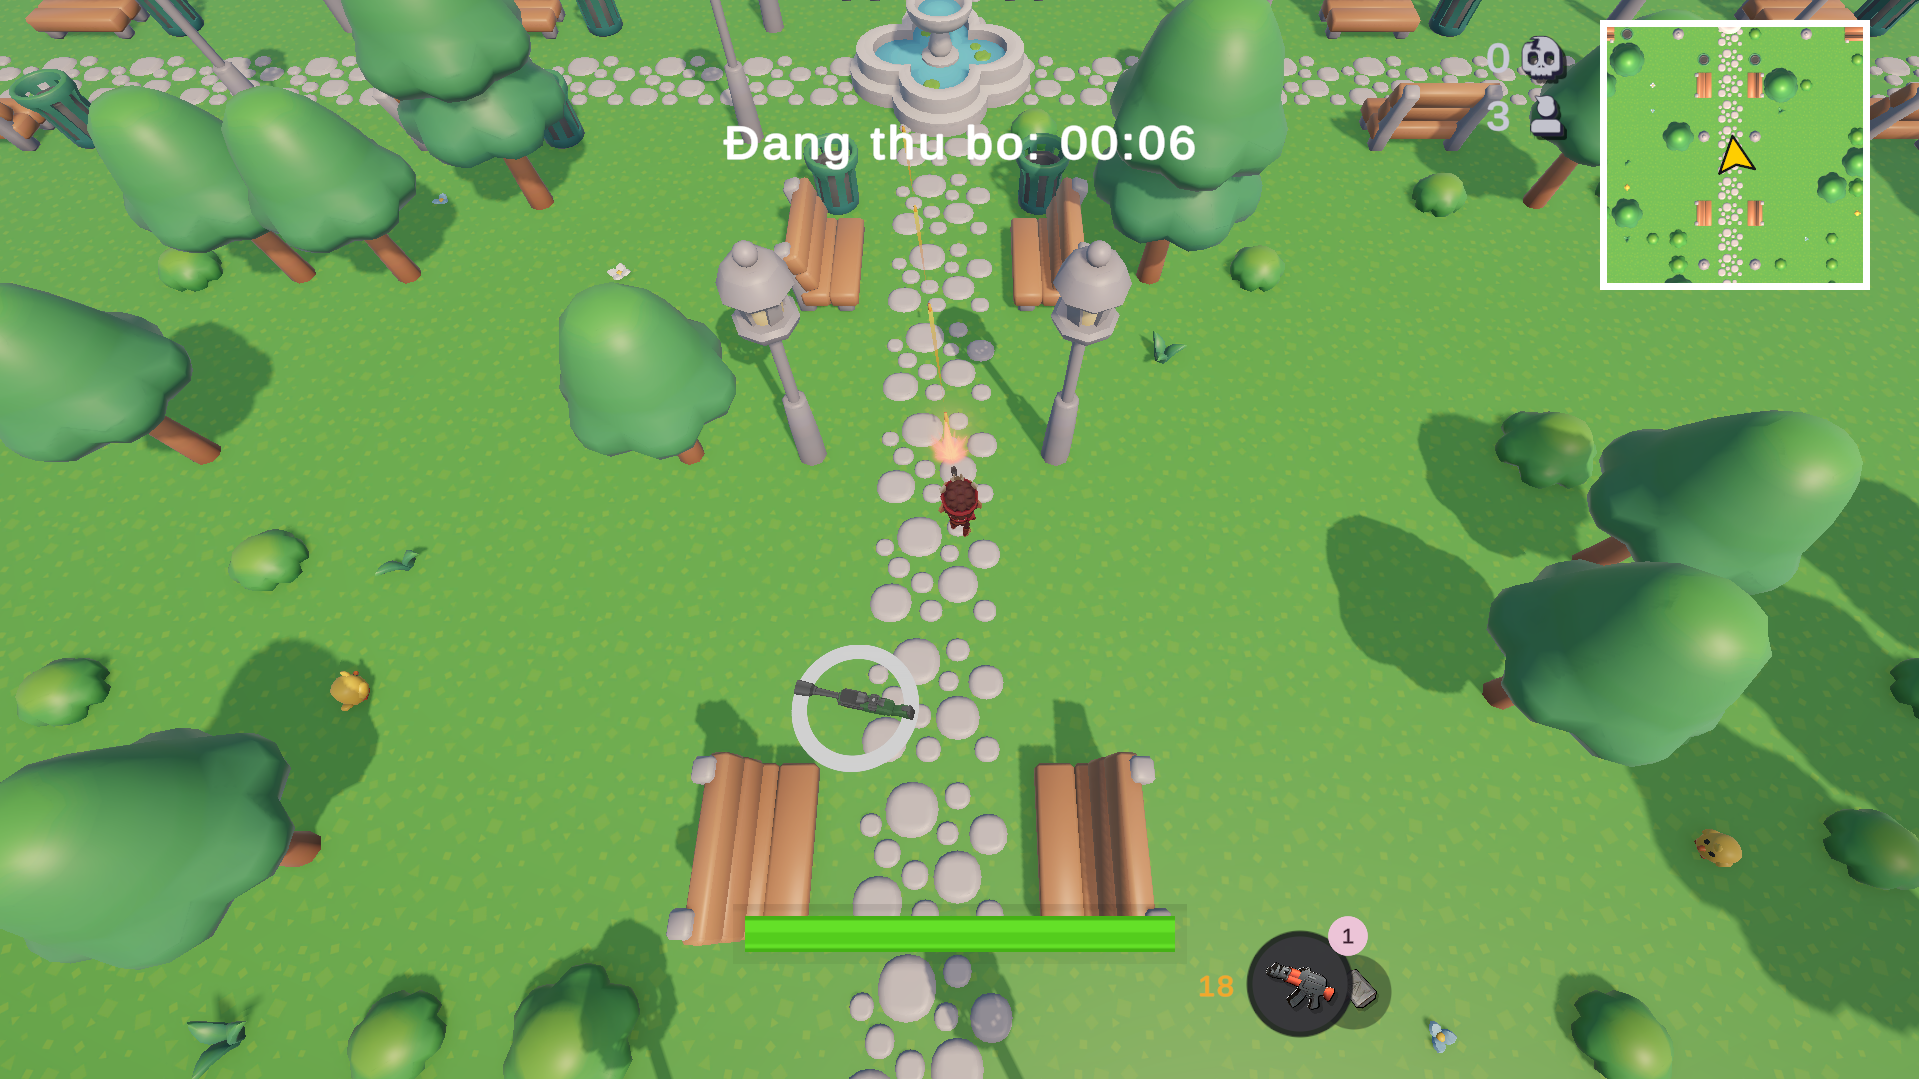
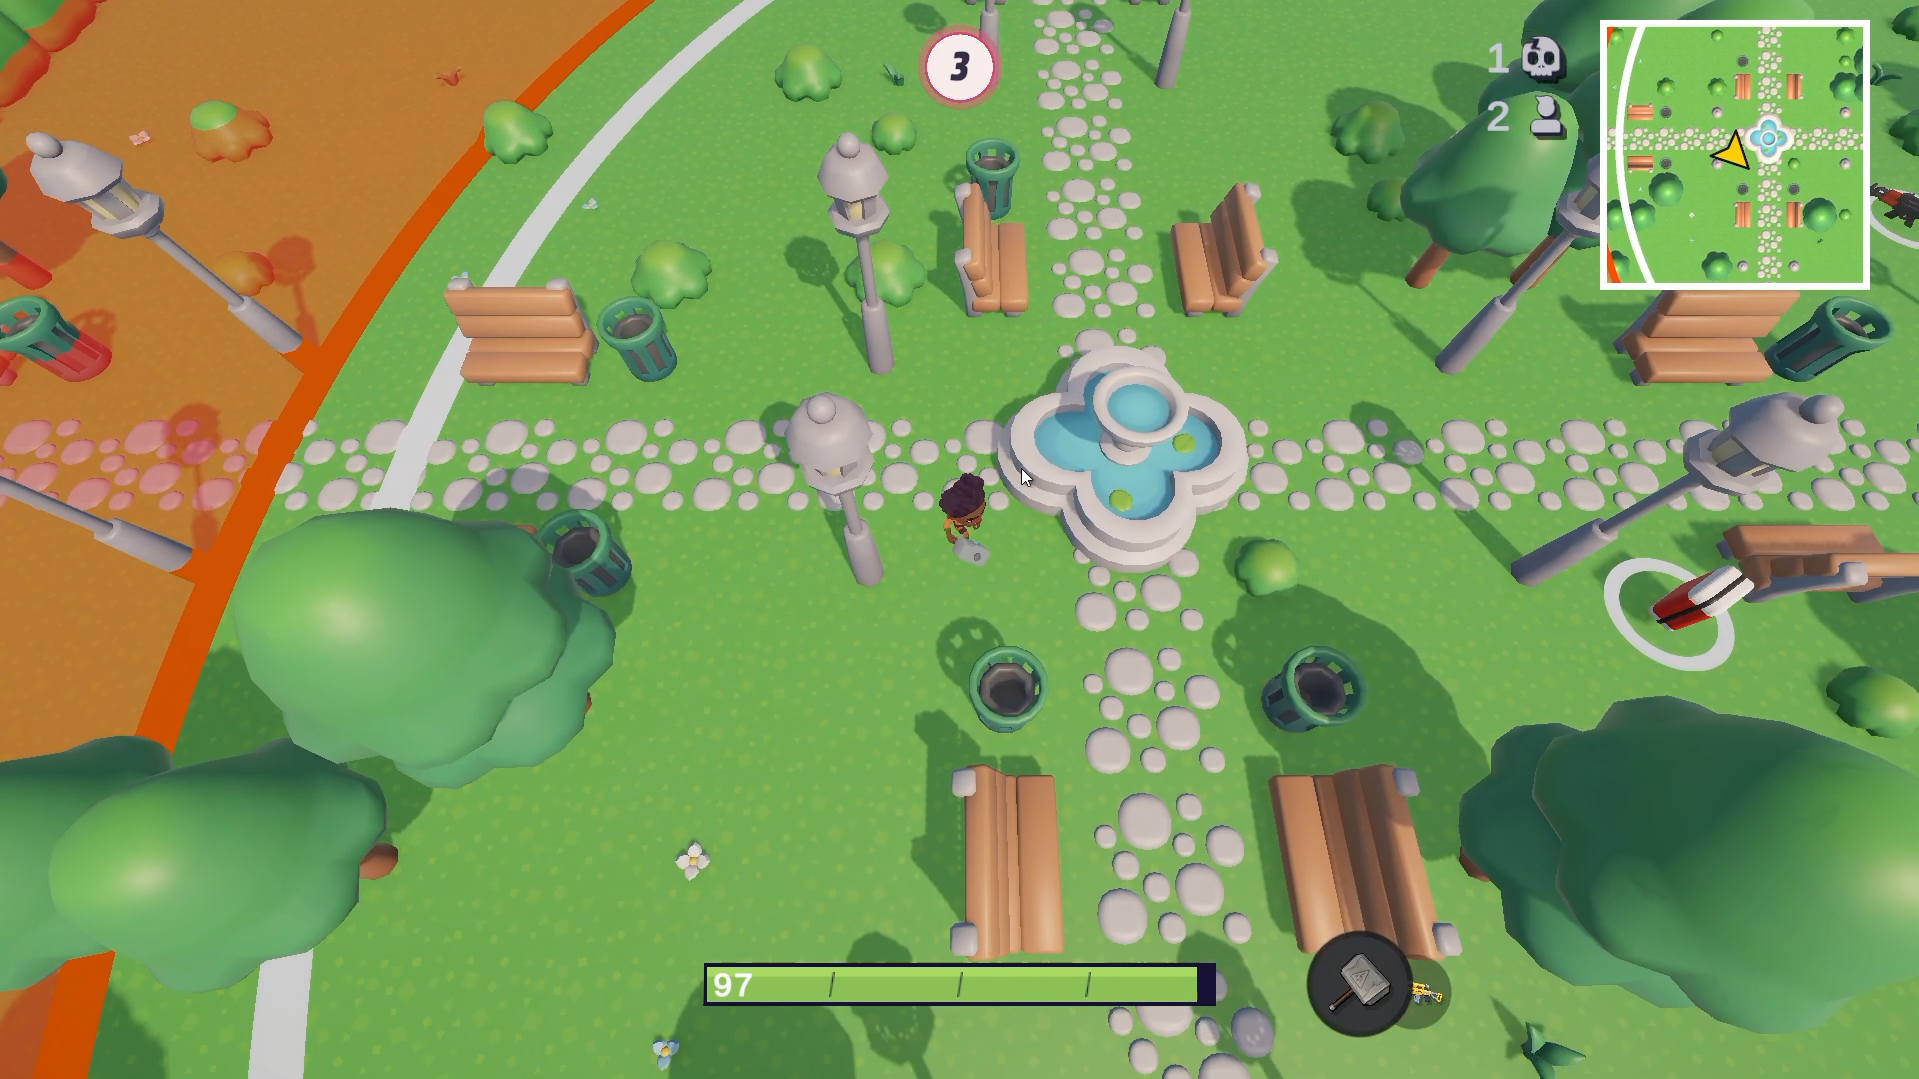
docs: update readme

diff --git a/README.md b/README.md
@@ -21,6 +21,14 @@ VectoArena Client is the Unity front end for VectoArena, a real-time multiplayer
 
 ![VectoArena top-down arena gameplay](docs/images/gameplay-arena.png)
 
+### Mobile Gameplay
+
+![VectoArena mobile gameplay with touch controls](docs/images/gameplay-mobile.jpg)
+
+The Android version uses a landscape HUD with left and right touch sticks, health and ammo
+status, weapon switching, match statistics, and a minimap so players can control the match on a
+touchscreen.
+
 ## Features
 
 - Account registration and login with token-authenticated player requests.
@@ -30,7 +38,7 @@ VectoArena Client is the Unity front end for VectoArena, a real-time multiplayer
 - Wallet linking through signed nonce verification.
 - VEC deposits and NFT skin purchase or ownership synchronization.
 - UI Toolkit screens for authentication, home, store, settings, gameplay HUD, and death flow.
-- Android support with responsive safe-area UI and dual-stick touch controls.
+- Android support with a responsive landscape HUD, safe-area layout, and dual-stick touch controls.
 
 ## Technology Stack
 
